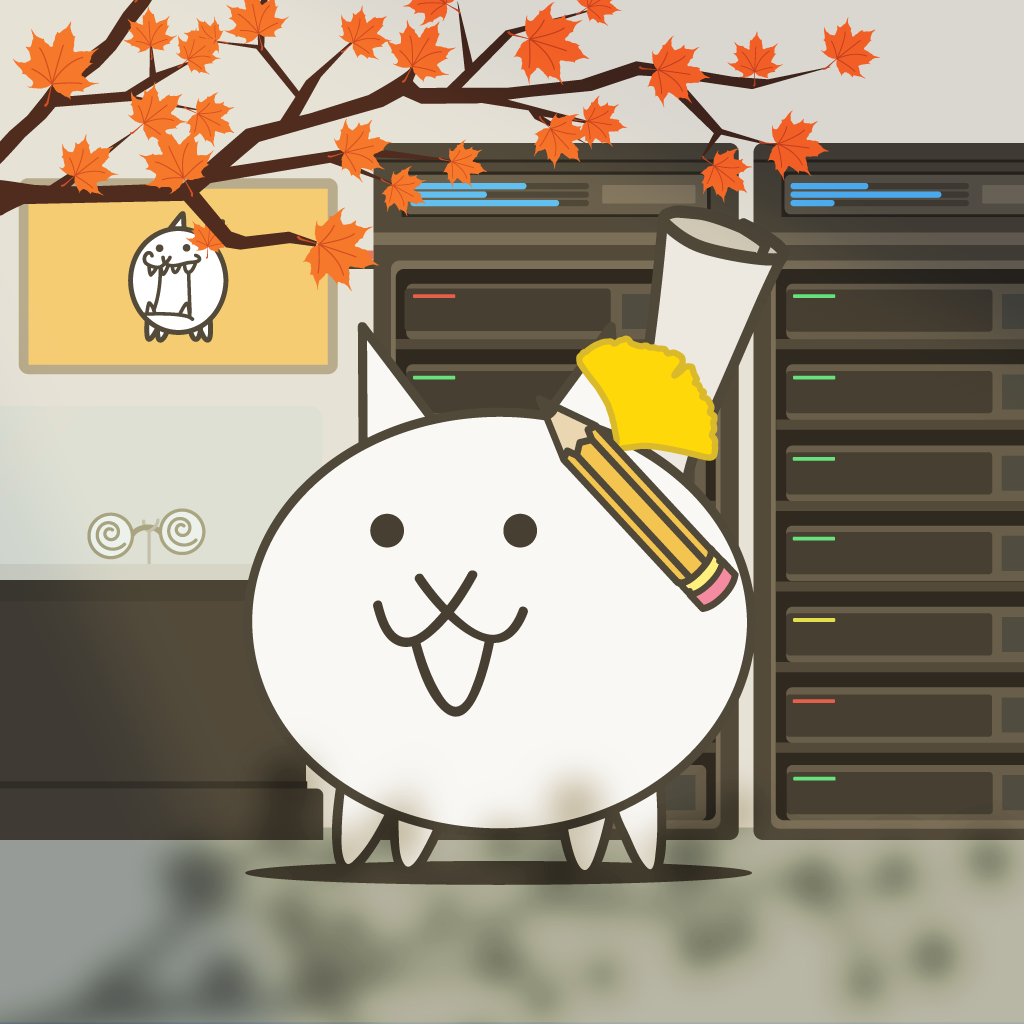
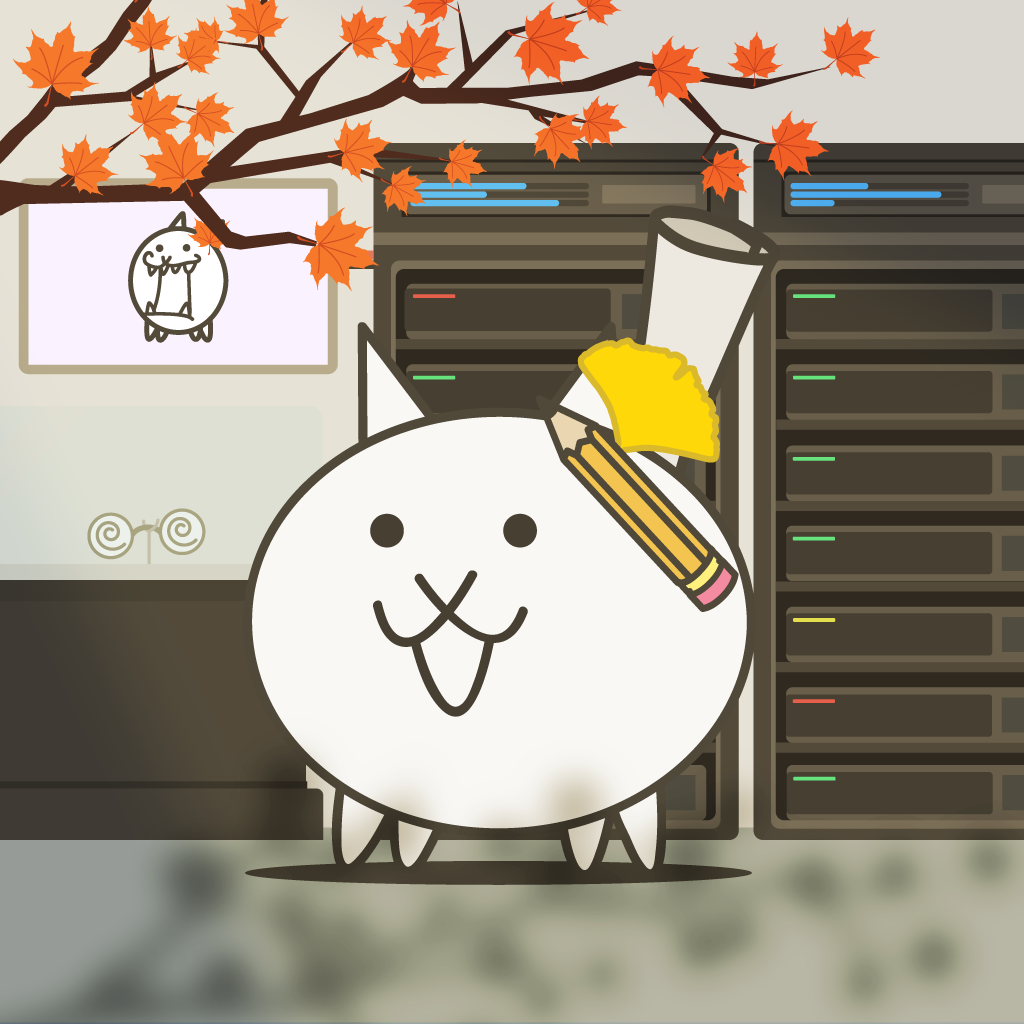
add June, July bot profile picture

diff --git a/src/main/java/mandarin/packpack/PackBot.java b/src/main/java/mandarin/packpack/PackBot.java
@@ -109,6 +109,12 @@ public class PackBot {
                             case 4:
                                 fileName = "BotApr.png";
                                 break;
+                            case 6:
+                                fileName = "BotJun.png";
+                                break;
+                            case 7:
+                                fileName = "BotJul.png";
+                                break;
                             case 10:
                                 fileName = "BotOct.png";
                                 break;
